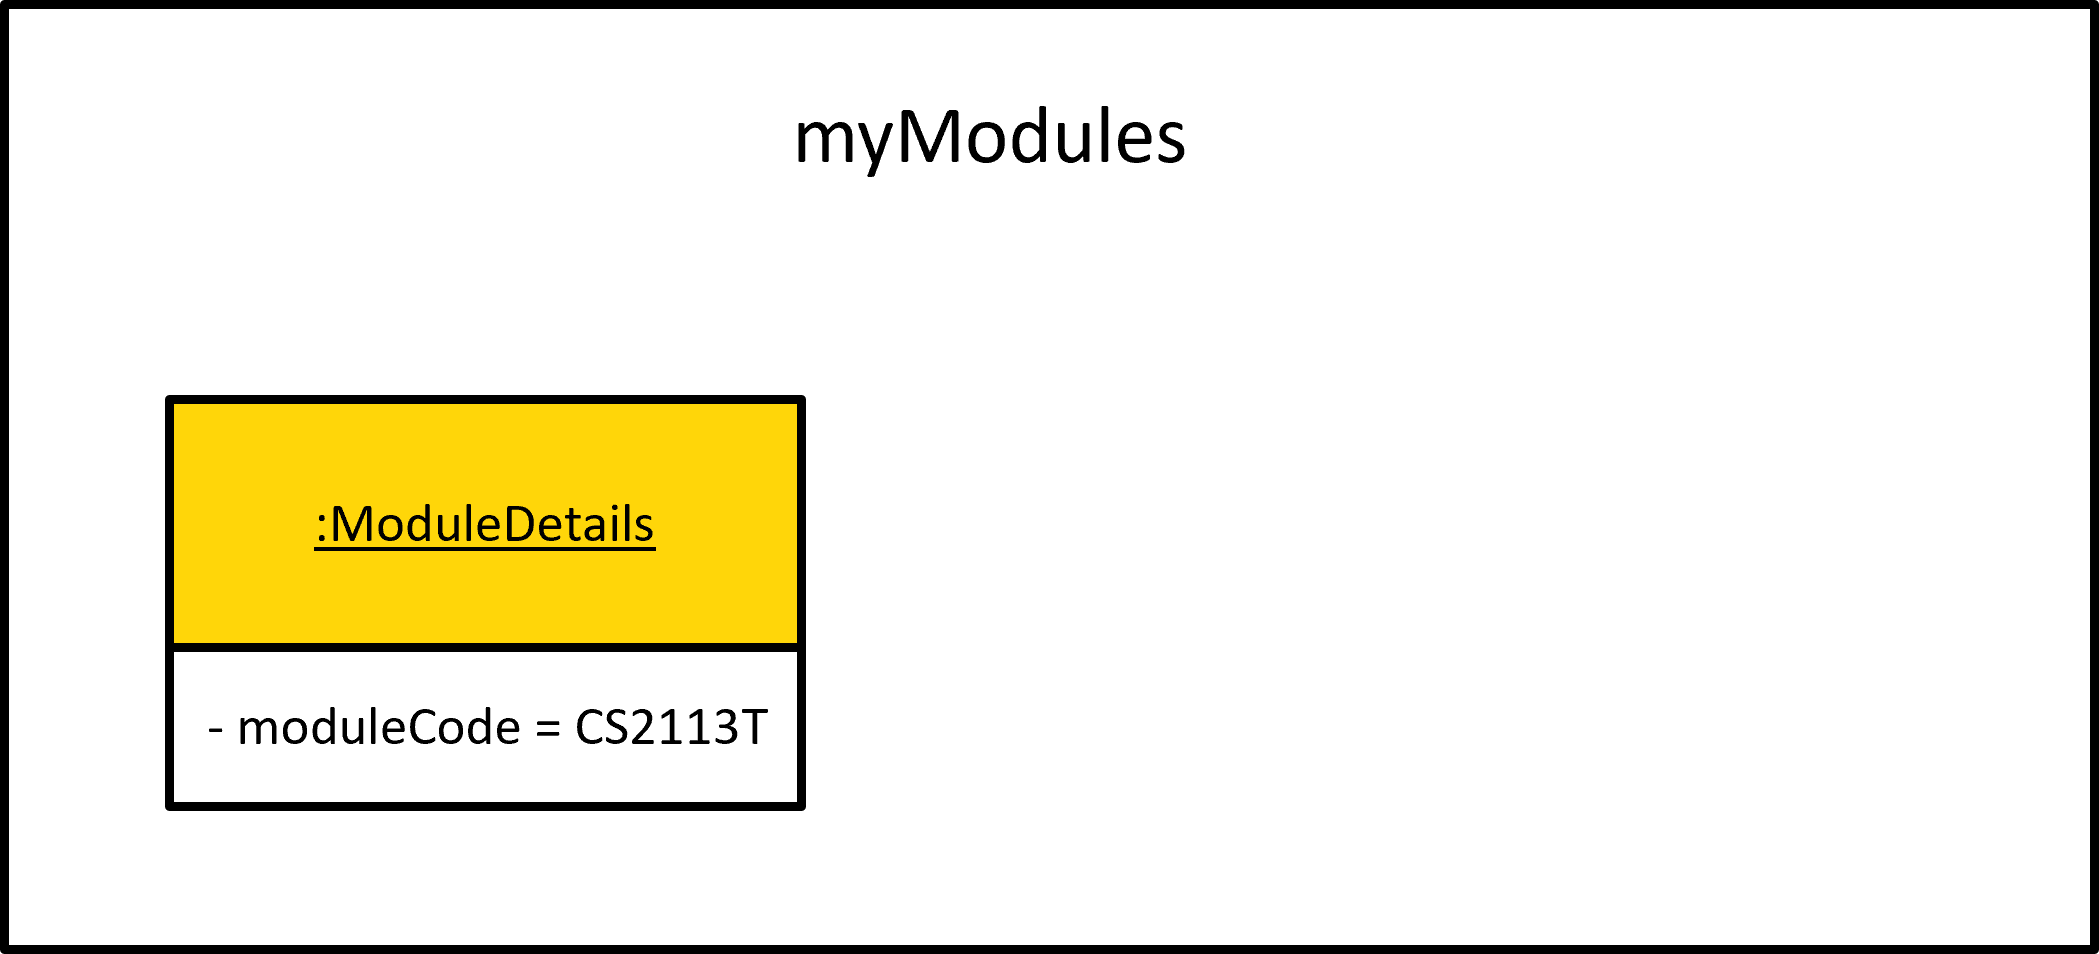
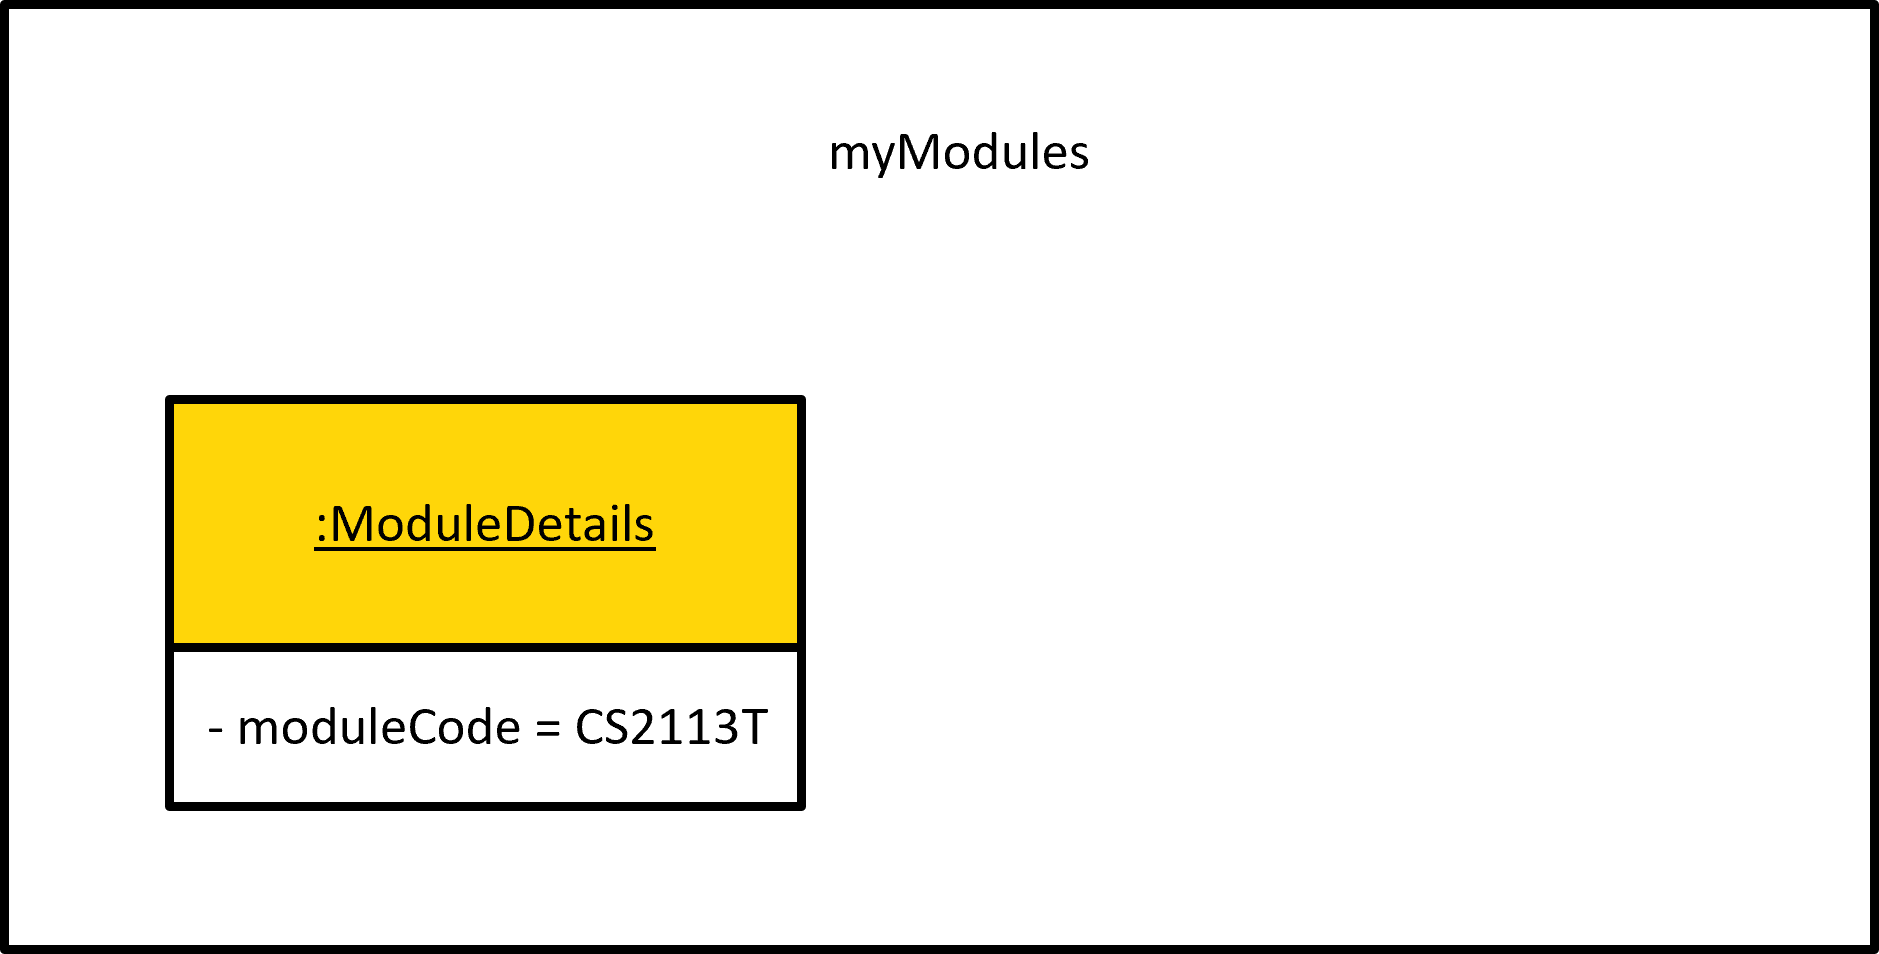
Resize object diagrams for module store

Changed region(s): [[0.0617, 0.3952, 0.4321, 0.8512], [0.3704, 0.1216, 0.5865, 0.1824]]

diff --git a/docs/DeveloperGuide.md b/docs/DeveloperGuide.md
@@ -331,19 +331,15 @@ Step 1: The user launches the application. `myModules` , the list of `ModuleDeta
 
 Example: `myModules` is initialized with single `ModuleDetails` instance corresponding to `CS2113T`
 
-![moduleListInit](assets/images/moduleListInit.png)
-
-
+<img src="assets/images/moduleListInit.png" width="550">
 
 Step 2: The user executes `module store CS2101` command to store information regarding `CS2101` in a new instance of `ModuleDetails` and append it to `myModules`. The `module store` prefix ensures `ModuleList#storeModuleByCode(String code, ModuleDb moduleDb)` is called. 
 
-![moduleListInit](assets/images/moduleStore.png)
-
-
+<img src="assets/images/moduleStore.png" width="550">
 
 Step 3: The user executes `module delete CS2101` command to delete the instance of `ModuleDetais` corresponding to `CS2101` from `myModules`. The `module delete` prefix ensures `ModuleList#deleteModuleByCode(String code)` is called. 
 
-![moduleListInit](assets/images/moduleListInit.png)
+<img src="assets/images/moduleListInit.png" width="550">
 
 
 
